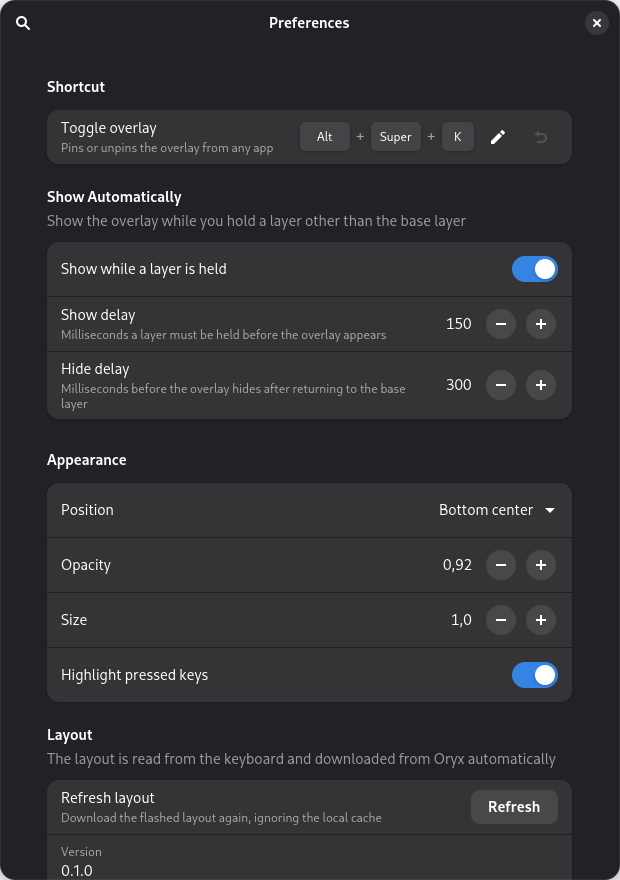
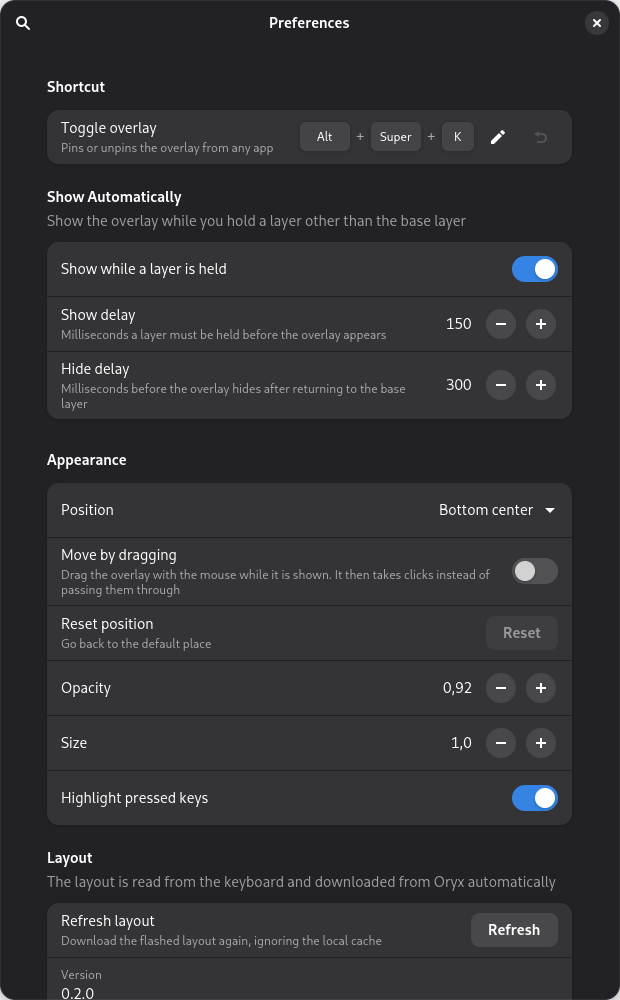
chore(release): v0.2.0

diff --git a/README.md b/README.md
@@ -4,7 +4,7 @@ A GNOME Shell extension that shows a floating overlay with the characters of the
 of your [ZSA Voyager](https://www.zsa.io/voyager). It is meant to help while you learn your
 layers: hold a layer key, or press a shortcut, and see what every key does right now.
 
-> **Status:** `0.1.0`, the first complete version. See the [changelog](CHANGELOG.md).
+> **Status:** `0.2.0`. See the [changelog](CHANGELOG.md).
 
 ![The overlay showing the base layer](docs/images/overlay-main.png)
 
@@ -22,6 +22,8 @@ layers: hold a layer key, or press a shortcut, and see what every key does right
   through to the base layer are dimmed. Layer, modifier and system keys each have their own
   style, and your custom Oryx labels are kept.
 - **Key highlighting.** Every key you press lights up in its physical position.
+- **Lock indicators.** Caps Lock and Num Lock keys show a green LED while the lock is on.
+- **Movable.** Optionally drag the overlay anywhere; *Reset position* brings it back.
 
 ![Pressed keys highlighted on the overlay](docs/images/overlay-pressed.png)
 
@@ -66,7 +68,9 @@ gnome-extensions enable zsa-helper@ajmasia
 | Toggle shortcut | `Super+Alt+K` |
 | Show while a layer is held | On |
 | Show / hide delay | 150 ms / 300 ms |
-| Position | Bottom center |
+| Position | Bottom center (or *Custom* after dragging) |
+| Move by dragging | Off. When on, the overlay takes clicks so it can be dragged |
+| Reset position | Back to bottom center |
 | Opacity / size | 0.92 / 1.0 |
 | Highlight pressed keys | On |
 | Refresh layout | Downloads the flashed revision again, ignoring the cache |

diff --git a/CHANGELOG.md b/CHANGELOG.md
@@ -7,6 +7,17 @@ adheres to [Semantic Versioning](https://semver.org/spec/v2.0.0.html).
 
 ## [Unreleased]
 
+## [0.2.0] - 2026-09-25
+
+### Added
+
+- Lock keys show an LED in the corner while Caps Lock or Num Lock is on. The state comes from the
+  system, so it is reliable and also follows locks toggled from another keyboard.
+- The overlay can be dragged with the mouse. Enable *Move by dragging* in the preferences; only
+  then does the overlay take clicks.
+- The dragged place is kept as *Custom* position. It is stored relative to the work area, so it
+  survives resolution and scale changes, and *Reset position* restores the default.
+
 ## [0.1.0] - 2026-09-25
 
 First complete version.
